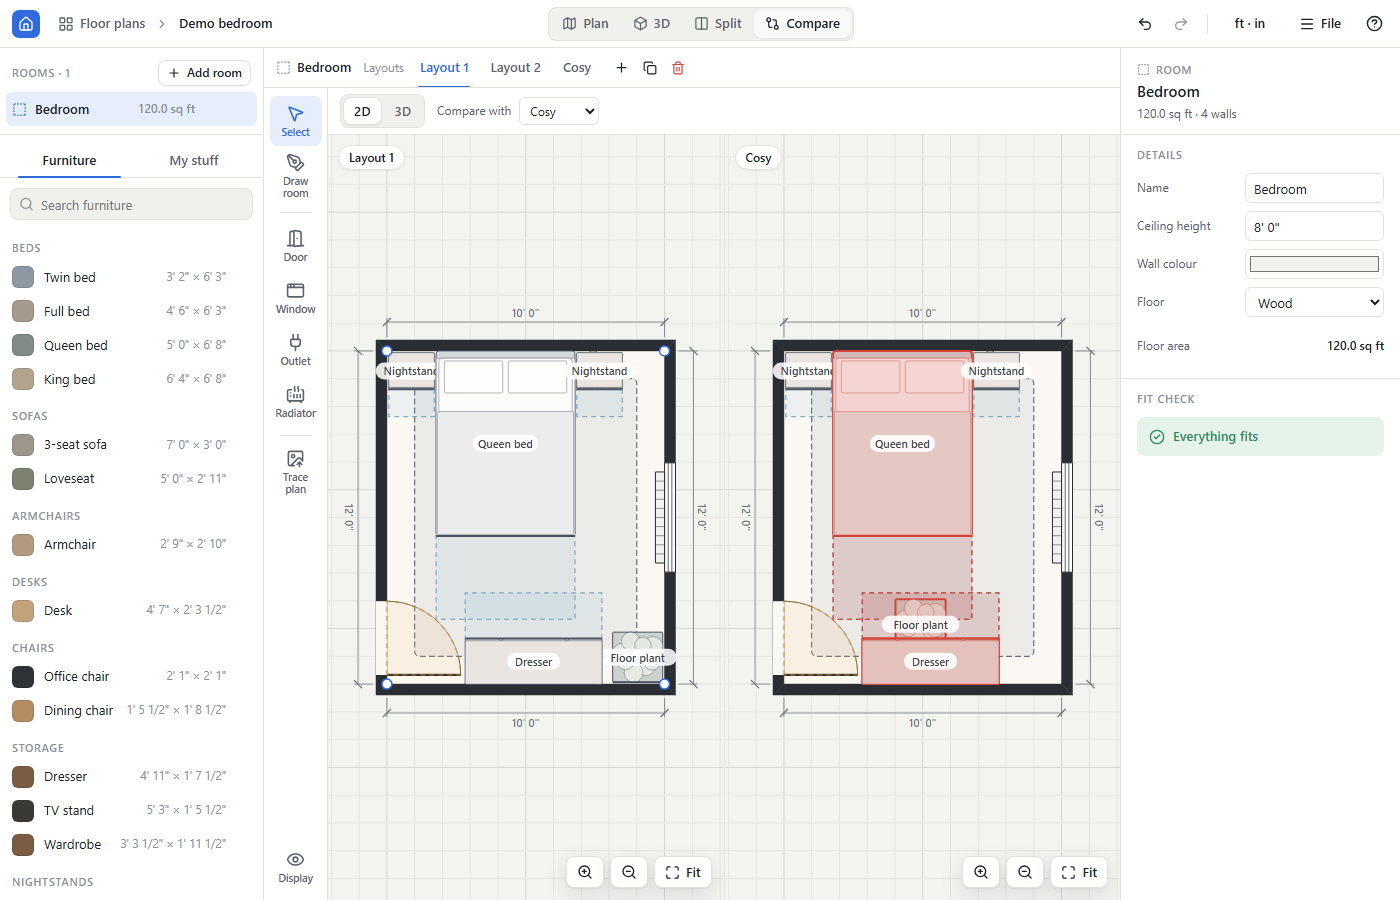
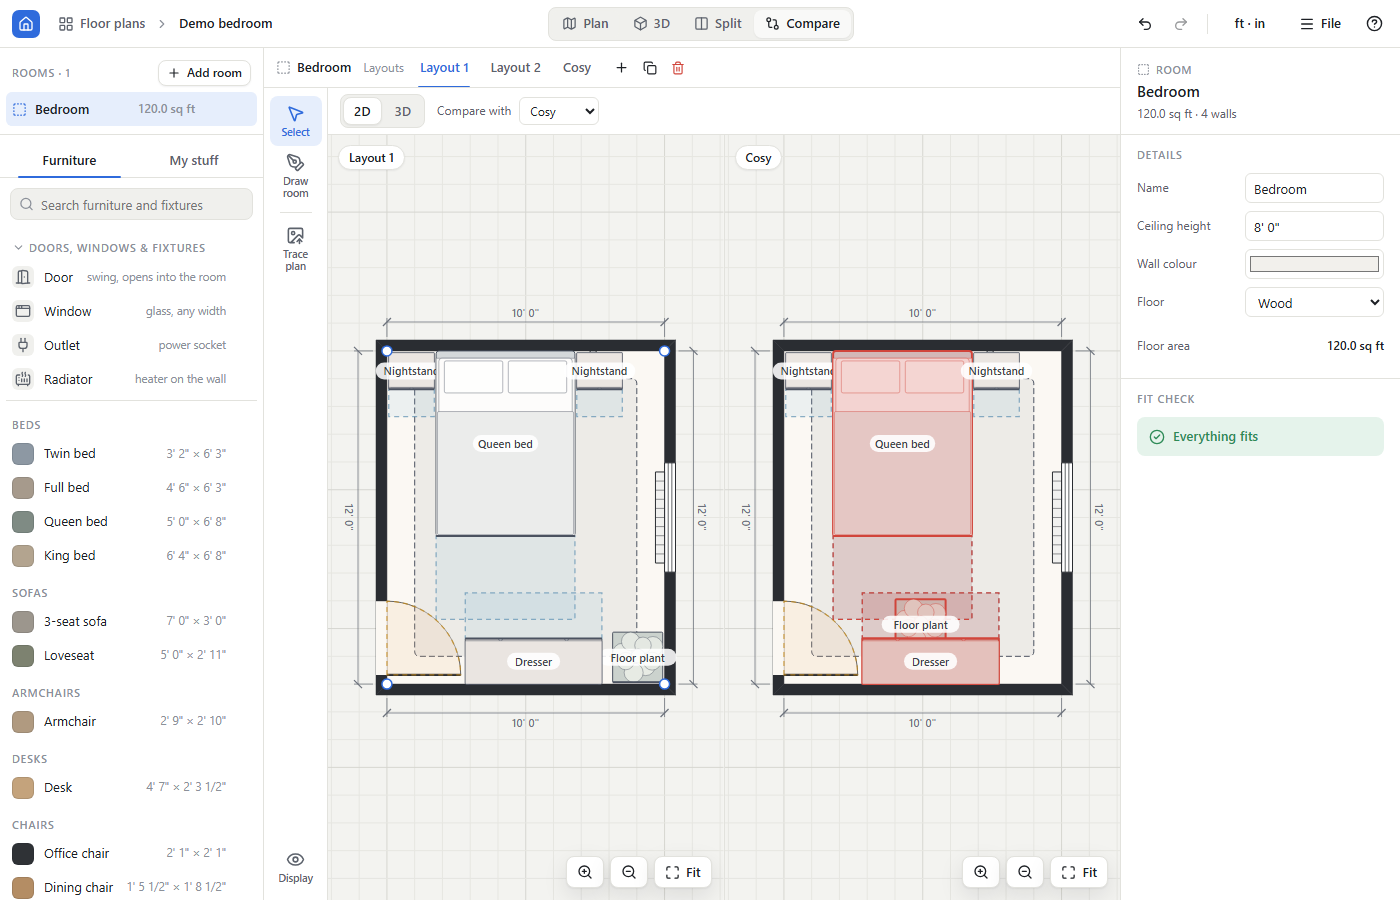
Move doors, windows, outlets and radiators into the Furniture tab
A collapsible 'Doors, windows & fixtures' section at the top of the catalogue (searchable, pick then click a wall); the tool rail keeps only Select, Draw room, Trace plan and Display.

diff --git a/src/app/LibraryPanel.tsx b/src/app/LibraryPanel.tsx
@@ -1,11 +1,12 @@
-import { Camera, Pencil, Plus, Search, SlidersHorizontal, SquareDashed, Trash } from 'lucide-react';
+import { AppWindow, Camera, ChevronDown, DoorOpen, Heater, Pencil, Plug, Plus, Search, SlidersHorizontal, SquareDashed, Trash } from 'lucide-react';
+import type { ReactNode } from 'react';
 import { useState } from 'react';
 import { polygonArea } from '../core/geometry';
 import { formatArea, formatLength } from '../core/units';
 import { bodyColor } from '../editor2d/view';
 import { PRESETS } from '../models/presets';
 import { useStore } from '../store/store';
-import type { ItemDef, UnitSystem } from '../types';
+import type { ItemDef, OpeningKind, UnitSystem } from '../types';
 import { RenameInput } from './inputs';
 import { Menu, MenuItem } from './Menu';
 import { startOptions } from './WelcomeCard';
@@ -85,6 +86,7 @@ export function LibraryPanel() {
   const hasRoom = useStore((st) => st.project.rooms.length > 0);
   const noRoomHint = hasRoom ? undefined : 'Add a room first';
   const groups = groupPresets(query);
+  const fixtures = FIXTURES.filter(([, , label, hint]) => matches(query, `${label} ${hint}`));
 
   return (
     <aside className="app-library" aria-label="Library">
@@ -101,10 +103,11 @@ export function LibraryPanel() {
         <>
           <label className="app-search">
             <Search size={15} />
-            <input type="search" placeholder="Search furniture" aria-label="Search furniture" data-testid="lib-search" value={query} onChange={(e) => setQuery(e.target.value)} />
+            <input type="search" placeholder="Search furniture and fixtures" aria-label="Search furniture and fixtures" data-testid="lib-search" value={query} onChange={(e) => setQuery(e.target.value)} />
           </label>
           <div className="app-lib-list">
-            {groups.length === 0 && <p className="app-empty">No furniture matches “{query}”.</p>}
+            {fixtures.length > 0 && <FixturesSection items={fixtures} hasRoom={hasRoom} />}
+            {groups.length === 0 && fixtures.length === 0 && <p className="app-empty">Nothing matches “{query}”.</p>}
             {groups.map(([cat, defs]) => (
               <section key={cat}>
                 <h3 className="app-lib-cat">{CATEGORY_LABEL[cat] ?? cat}</h3>
@@ -152,5 +155,41 @@ export function LibraryPanel() {
         </div>
       )}
     </aside>
+  );
+}
+
+/** Things built into the walls rather than furniture: picked here, then placed by clicking a wall. */
+const FIXTURES: [OpeningKind, ReactNode, string, string][] = [
+  ['door', <DoorOpen size={16} />, 'Door', 'swing, opens into the room'],
+  ['window', <AppWindow size={16} />, 'Window', 'glass, any width'],
+  ['outlet', <Plug size={16} />, 'Outlet', 'power socket'],
+  ['radiator', <Heater size={16} />, 'Radiator', 'heater on the wall'],
+];
+const matches = (query: string, text: string) => text.toLowerCase().includes(query.trim().toLowerCase());
+
+function FixturesSection({ items, hasRoom }: { items: typeof FIXTURES; hasRoom: boolean }) {
+  const [open, setOpen] = useState(true);
+  const ui = useStore((st) => st.ui);
+  return (
+    <section className="app-fixtures" data-testid="fixtures-section">
+      <button className="app-lib-cat app-lib-toggle" aria-expanded={open} data-testid="fixtures-toggle" onClick={() => setOpen(!open)}>
+        <ChevronDown size={13} className="app-chevron" aria-hidden /> Doors, windows &amp; fixtures
+      </button>
+      {open && items.map(([kind, icon, label, hint]) => {
+        const active = ui.tool === 'place-opening' && ui.openingKind === kind;
+        return (
+          <button
+            key={kind} className={`app-lib-row${active ? ' active' : ''}`} aria-pressed={active} data-testid={`tool-${kind}`} disabled={!hasRoom}
+            title={hasRoom ? `Add a ${label.toLowerCase()}: then click a wall` : 'Add a room first'}
+            onClick={() => s().setUI(active ? { tool: 'select' } : { tool: 'place-opening', openingKind: kind, view: ui.view === 'split' ? 'split' : 'plan' })}
+          >
+            <span className="app-lib-icon" aria-hidden>{icon}</span>
+            <span className="app-lib-name">{label}</span>
+            {active ? <span className="app-lib-size app-lib-now">Click a wall</span> : <span className="app-lib-size">{hint}</span>}
+            <span className="app-lib-add" aria-hidden><Plus size={15} /></span>
+          </button>
+        );
+      })}
+    </section>
   );
 }

diff --git a/src/app/ToolRail.tsx b/src/app/ToolRail.tsx
@@ -1,14 +1,9 @@
-import { AppWindow, DoorOpen, Eye, Footprints, Grid3x3, Heater, ImageUp, Magnet, MousePointer2, PenTool, Plug, Scissors, ShieldCheck } from 'lucide-react';
+import { Eye, Footprints, Grid3x3, ImageUp, Magnet, MousePointer2, PenTool, Scissors, ShieldCheck } from 'lucide-react';
 import type { ReactNode } from 'react';
-import { useActiveRoom } from '../store/selectors';
 import { useStore } from '../store/store';
-import type { OpeningKind, UIState, ViewMode } from '../types';
+import type { UIState, ViewMode } from '../types';
 import { Menu, MenuItem } from './Menu';
 
-const OPENINGS: [OpeningKind, ReactNode, string][] = [
-  ['door', <DoorOpen size={19} />, 'Door'], ['window', <AppWindow size={19} />, 'Window'],
-  ['outlet', <Plug size={19} />, 'Outlet'], ['radiator', <Heater size={19} />, 'Radiator'],
-];
 type Toggle = 'showGrid' | 'snap' | 'showClearances' | 'cutaway' | 'walkMode';
 const s = () => useStore.getState();
 
@@ -23,10 +18,9 @@ function RailButton(props: { active?: boolean; label: string; title: string; ico
   );
 }
 
-/** Editing tools and display options, docked on the left edge of the canvas. */
+/** Editing tools and display options, docked on the left edge of the canvas. Doors, windows and fixtures live in the library. */
 export function ToolRail() {
   const ui = useStore((st) => st.ui);
-  const room = useActiveRoom();
   const planOrSplit: ViewMode = ui.view === 'split' ? 'split' : 'plan';
   const set = (patch: Partial<UIState>) => s().setUI(patch);
   const toggle = (key: Toggle, label: string, icon: ReactNode, testId: string, kbd?: string) => (
@@ -38,12 +32,6 @@ export function ToolRail() {
       <RailButton active={ui.tool === 'select'} label="Select" title="Select and move (V)" icon={<MousePointer2 size={19} />} testId="tool-select" onClick={() => set({ tool: 'select' })} />
       <RailButton active={ui.tool === 'draw-room'} label="Draw room" title="Draw a new room: click its corners"
         icon={<PenTool size={19} />} testId="tool-draw-room" onClick={() => set({ tool: 'draw-room', view: planOrSplit })} />
-      <div className="app-rail-sep" />
-      {OPENINGS.map(([kind, icon, label]) => (
-        <RailButton key={kind} active={ui.tool === 'place-opening' && ui.openingKind === kind} label={label}
-          title={room ? `Add a ${label.toLowerCase()}: click a wall` : 'Add a room first'} icon={icon} testId={`tool-${kind}`} disabled={!room}
-          onClick={() => set({ tool: 'place-opening', openingKind: kind, view: planOrSplit })} />
-      ))}
       <div className="app-rail-sep" />
       <RailButton active={ui.dialog === 'floorplan'} label="Trace plan" title="Trace rooms over a floor-plan image" icon={<ImageUp size={19} />}
         testId="open-floorplan" onClick={() => set({ dialog: ui.dialog === 'floorplan' ? 'none' : 'floorplan', view: planOrSplit })} />

diff --git a/src/app/styles.css b/src/app/styles.css
@@ -299,6 +299,14 @@ kbd, .app-kbd {
 .app-lib-name { flex: 1; min-width: 0; overflow: hidden; text-overflow: ellipsis; white-space: nowrap; }
 .app-lib-size { color: var(--text-3); font-size: 11.5px; white-space: nowrap; font-variant-numeric: tabular-nums; }
 .app-lib-add { color: var(--accent); opacity: 0; display: inline-flex; }
+.app-lib-toggle { display: flex; align-items: center; gap: 4px; width: calc(100% - 12px); border: 0; background: none; padding: 0; cursor: pointer; text-align: left; font: inherit; font-size: 11px; font-weight: 600; }
+.app-lib-toggle:hover { color: var(--text-2); }
+.app-lib-toggle[aria-expanded='false'] .app-chevron { transform: rotate(-90deg); }
+.app-lib-icon { width: 22px; height: 22px; border-radius: 6px; display: inline-flex; align-items: center; justify-content: center; flex-shrink: 0; background: var(--surface-2); color: var(--text-2); }
+.app-lib-row.active { background: var(--accent-soft); }
+.app-lib-row.active .app-lib-icon { background: var(--accent); color: #fff; }
+.app-lib-now { color: var(--accent); font-weight: 600; }
+.app-fixtures { padding-bottom: 4px; border-bottom: 1px solid var(--border); margin-bottom: 4px; }
 .app-swatch { width: 22px; height: 22px; border-radius: 6px; border: 1px solid rgba(20, 24, 31, 0.12); flex-shrink: 0; }
 .app-my-row { cursor: default; flex-wrap: wrap; }
 .app-my-row:hover { background: var(--surface-2); }

diff --git a/e2e/library.spec.ts b/e2e/library.spec.ts
@@ -118,3 +118,23 @@ test('"My stuff" is shared by every floor plan, and survives a reload', async ({
   await page.getByTestId('tab-my-stuff').click();
   await expect(page.getByTestId('my-item')).toHaveText(/Grandma armchair/);
 });
+
+test('doors, windows and fixtures live in the Furniture tab: search, collapse, pick then click a wall', async ({ page }) => {
+  await page.goto('/');
+  await page.getByTestId('home-demo').click();
+  await expect(page.getByTestId('tool-door')).toBeVisible();
+  await page.getByTestId('lib-search').fill('radiator');
+  await expect(page.getByTestId('tool-radiator')).toBeVisible();
+  await expect(page.getByTestId('tool-door')).toHaveCount(0);
+  await expect(page.getByTestId('lib-item')).toHaveCount(0);
+  await page.getByTestId('lib-search').fill('');
+  await page.getByTestId('tool-window').click();
+  await expect(page.getByTestId('tool-window')).toHaveAttribute('aria-pressed', 'true');
+  expect((await state(page)).ui).toMatchObject({ tool: 'place-opening', openingKind: 'window' });
+  await page.getByTestId('tool-window').click(); // again: back to Select
+  expect((await state(page)).ui.tool).toBe('select');
+  await page.getByTestId('fixtures-toggle').click();
+  await expect(page.getByTestId('tool-door')).toHaveCount(0);
+  await page.getByTestId('fixtures-toggle').click();
+  await expect(page.getByTestId('tool-door')).toBeVisible();
+});

diff --git a/README.md b/README.md
@@ -67,10 +67,10 @@ The last plan you had open reopens on the next visit.
 - **Top bar:** "Floor plans › *plan name*" (click *Floor plans* to go back; click the name to rename the plan), the view
   switcher (Plan / 3D / Split / Compare, keys 1-4), undo/redo, the units switch, the **File** menu (new plan, import,
   export `.roomplan`, export PNGs) and help.
-- **Tool rail** (left edge of the canvas): Select, Draw room, Door, Window, Outlet, Radiator, Trace plan, and at the bottom
+- **Tool rail** (left edge of the canvas): Select, Draw room, Trace plan, and at the bottom
   **Display** (grid, snapping, clearance zones, cut-away walls, walk mode).
 - **Left sidebar:** the plan's **Rooms** (click one to work on it, double-click or the pencil to rename, bin to delete,
-  **Add room** for the three ways to add one) above the **Furniture** catalogue (searchable) and **My stuff**.
+  **Add room** for the three ways to add one) above the **Furniture** catalogue (searchable; it starts with **Doors, windows & fixtures**) and **My stuff**.
 - **Above the canvas:** the active room and its layouts as tabs.
 - **Inspector** (right): details of whatever is selected; with nothing selected, the room's details and its **Fit check**.
 
@@ -111,7 +111,7 @@ Or load the **demo bedroom** to look around first. A floor plan can hold several
 sidebar).
 
 ### Openings and room details
-Place doors, windows, outlets and radiators from the tool rail, then click one to edit it in the inspector: width, height,
+Pick a door, window, outlet or radiator under **Doors, windows & fixtures** at the top of the Furniture tab and click a wall to place it; click one to edit it in the inspector: width, height,
 sill height, offset along the wall, and for doors the hinge side and swing direction (in/out). Widths are kept between 5 cm
 and the length of the wall, and the opening stays on its wall. The room inspector sets the name, ceiling height, wall
 colour and floor (wood, carpet or tile) and shows the floor area.
